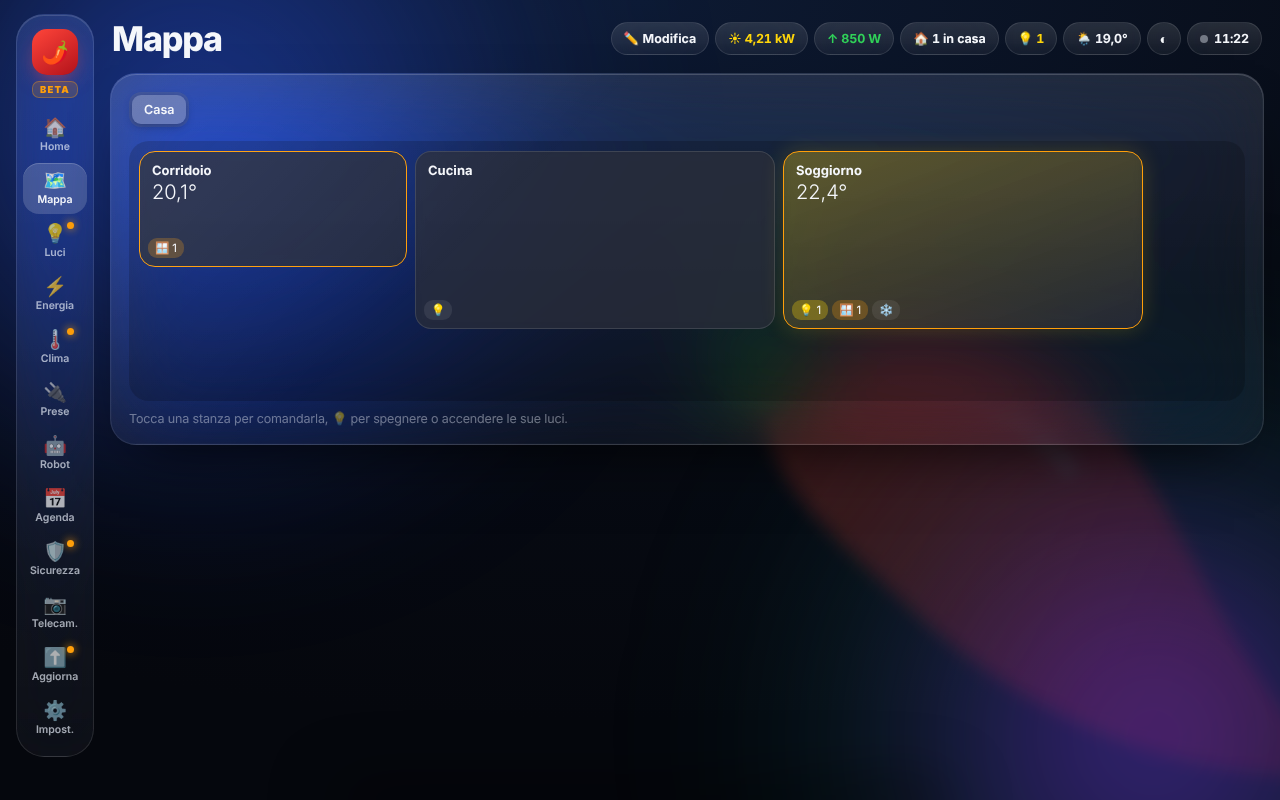
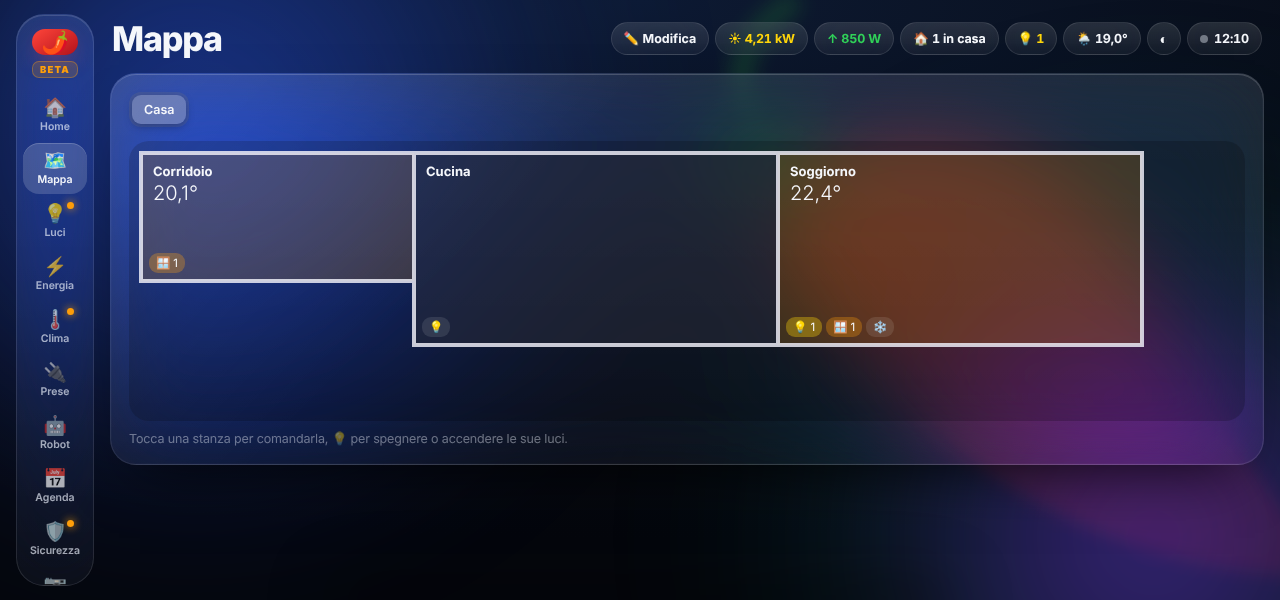
0.7.1-beta: energia oggi corretta, mappa con stanze a L e muri
Claude-Session: https://claude.ai/code/session_01EaUZ5Zvy2k59B92nQm4H5b

diff --git a/custom_components/nduja_dashboard/frontend/js/pages/mappa.js b/custom_components/nduja_dashboard/frontend/js/pages/mappa.js
@@ -23,10 +23,31 @@ function posizioni(f, stanze) {
     out[a] = { x, y, w, h }; x += w; hRiga = Math.max(hRiga, h);
   }
   /* le stanze salvate non devono finire sotto quelle automatiche: le automatiche partono sotto l'ultima salvata */
-  const salvate = stanze.filter(a => M[a]), fondo = Math.max(0, ...salvate.map(a => M[a].y + M[a].h));
+  const salvate = stanze.filter(a => M[a]), fondo = Math.max(0, ...salvate.flatMap(a => [M[a], ...(M[a].extra || [])].map(r => r.y + r.h)));
   if (salvate.length && salvate.length < stanze.length) stanze.filter(a => !M[a]).forEach(a => out[a] = { ...out[a], y: out[a].y + fondo });
   return out;
 }
+
+/** pezzi di una stanza: il rettangolo principale più quelli aggiunti (per le stanze a L, a T…) */
+const pezzi = p => [{ x: p.x, y: p.y, w: p.w, h: p.h }, ...(p.extra || [])];
+/** muri: il contorno dell'unione delle celle di ogni stanza (così una L ha un solo contorno) */
+function muri(pos, stanze) {
+  const seg = [];
+  for (const a of stanze) {
+    const C = new Set();
+    pezzi(pos[a]).forEach(r => { for (let x = r.x; x < r.x + r.w; x++) for (let y = r.y; y < r.y + r.h; y++) C.add(x + "," + y); });
+    for (const c of C) { const [x, y] = c.split(",").map(Number);
+      if (!C.has(x + "," + (y - 1))) seg.push(`M${x} ${y}H${x + 1}`);
+      if (!C.has(x + "," + (y + 1))) seg.push(`M${x} ${y + 1}H${x + 1}`);
+      if (!C.has((x - 1) + "," + y)) seg.push(`M${x} ${y}V${y + 1}`);
+      if (!C.has((x + 1) + "," + y)) seg.push(`M${x + 1} ${y}V${y + 1}`); }
+  }
+  return seg.join("");
+}
+const comandi = (a, i) => `<div class="mpe1">
+  <button data-act="mpMove" data-id="${a}" data-i="${i}" data-v="x,-1">←</button><button data-act="mpMove" data-id="${a}" data-i="${i}" data-v="y,-1">↑</button><button data-act="mpMove" data-id="${a}" data-i="${i}" data-v="y,1">↓</button><button data-act="mpMove" data-id="${a}" data-i="${i}" data-v="x,1">→</button>
+  <button data-act="mpMove" data-id="${a}" data-i="${i}" data-v="w,-1">⇠</button><button data-act="mpMove" data-id="${a}" data-i="${i}" data-v="w,1">⇢</button><button data-act="mpMove" data-id="${a}" data-i="${i}" data-v="h,-1">⇡</button><button data-act="mpMove" data-id="${a}" data-i="${i}" data-v="h,1">⇣</button>
+  ${i === 0 ? `<button class="wide" data-act="mpPiece" data-id="${a}">＋ ${t("pezzo (L)", "piece (L)")}</button>` : `<button class="wide bad" data-act="mpPieceDel" data-id="${a}" data-i="${i}">✕ ${t("pezzo", "piece")}</button>`}</div>`;
 
 function stanza(a, p) {
   const T = roomTemp(a), H = roomHum(a), L = lightsOn(a).length, nL = inArea(a, "light").length;
@@ -34,44 +55,53 @@ function stanza(a, p) {
   const mov = inArea(a, "binary_sensor", id => ["motion", "occupancy", "presence"].includes(deviceClass(id)) && isOn(id)).length;
   const C = inArea(a, "climate").find(id => ok(id) && S[id].state !== "off"), freddo = C && ["cool", "dry"].includes(S[C].state);
   const pericolo = inArea(a, "binary_sensor", id => ["smoke", "gas", "moisture", "carbon_monoxide"].includes(deviceClass(id)) && isOn(id)).length;
-  const ed = UI.edit ? `<div class="mpe1">
-      <button data-act="mpMove" data-id="${a}" data-v="x,-1">←</button><button data-act="mpMove" data-id="${a}" data-v="y,-1">↑</button><button data-act="mpMove" data-id="${a}" data-v="y,1">↓</button><button data-act="mpMove" data-id="${a}" data-v="x,1">→</button>
-      <button data-act="mpMove" data-id="${a}" data-v="w,-1">⇠</button><button data-act="mpMove" data-id="${a}" data-v="w,1">⇢</button><button data-act="mpMove" data-id="${a}" data-v="h,-1">⇡</button><button data-act="mpMove" data-id="${a}" data-v="h,1">⇣</button></div>` : "";
-  return `<div class="mpr1 ${L ? "lit" : ""} ${O ? "open" : ""} ${mov ? "mov" : ""} ${pericolo ? "dang" : ""}" style="grid-column:${p.x + 1} / span ${p.w};grid-row:${p.y + 1} / span ${p.h}">
-    <button class="mpb1" data-act="room" data-id="${a}"><b>${esc(AREAS[a].name)}</b>
+  const cls = `mpr1 ${L ? "lit" : ""} ${O ? "open" : ""} ${mov ? "mov" : ""} ${pericolo ? "dang" : ""}`;
+  return pezzi(p).map((r, i) => `<div class="${cls} ${i ? "pz" : ""}" style="grid-column:${r.x + 1} / span ${r.w};grid-row:${r.y + 1} / span ${r.h}">
+    ${i === 0 ? `<button class="mpb1" data-act="room" data-id="${a}"><b>${esc(AREAS[a].name)}</b>
       <span class="mpt1">${T != null ? fnum(T) + "°" : ""}${H != null ? `<small>${Math.round(H)}%</small>` : ""}</span></button>
-    <div class="mpi1">${nL ? `<button class="${L ? "on" : ""}" data-act="mpLights" data-id="${a}" title="${t("Luci", "Lights")}">💡${L ? " " + L : ""}</button>` : ""}${O ? `<i class="al">🪟 ${O}</i>` : ""}${C ? `<i>${freddo ? "❄" : "🔥"}</i>` : ""}${mov ? `<i>🏃</i>` : ""}${pericolo ? `<i class="al">🚨</i>` : ""}</div>${ed}</div>`;
+    <div class="mpi1">${nL ? `<button class="${L ? "on" : ""}" data-act="mpLights" data-id="${a}" title="${t("Luci", "Lights")}">💡${L ? " " + L : ""}</button>` : ""}${O ? `<i class="al">🪟 ${O}</i>` : ""}${C ? `<i>${freddo ? "❄" : "🔥"}</i>` : ""}${mov ? `<i>🏃</i>` : ""}${pericolo ? `<i class="al">🚨</i>` : ""}</div>`
+      : `<button class="mpb1" data-act="room" data-id="${a}" aria-label="${esc(AREAS[a].name)}"></button>`}
+    ${UI.edit ? comandi(a, i) : ""}</div>`).join("");
 }
 
 function pagina() {
   const P = piani();
   if (!P.length) return `<div class="g">${card("🗺 " + t("Mappa", "Map"), empty(t("Crea le aree in Home Assistant (Impostazioni → Aree) e assegna i dispositivi: la mappa si disegna da sola.", "Create areas in Home Assistant (Settings → Areas) and assign devices: the map draws itself.")))}</div>`;
   const cur = P.find(p => p.f === sGet("mapFloor")) || P[0], pos = posizioni(cur.f, cur.stanze);
-  const righe = Math.max(4, ...Object.values(pos).map(p => p.y + p.h)), img = LAYOUT.map?.[cur.f]?.img;
+  const righe = Math.max(4, ...Object.values(pos).flatMap(p => pezzi(p).map(r => r.y + r.h))), img = LAYOUT.map?.[cur.f]?.img;
   return `<div class="g"><section class="card mp1">
     <div class="ch"><div class="seg">${P.map(p => `<button class="${p.f === cur.f ? "act" : ""}" data-act="mpFloor" data-v="${p.f}">${esc(p.nome)}</button>`).join("")}</div>
       ${isAdmin() && UI.edit ? `<span class="row" style="gap:6px"><button class="btn sm" data-act="mpImg" data-v="${cur.f}">🖼 ${t("Piantina", "Floor plan")}</button><button class="btn sm" data-act="mpReset" data-v="${cur.f}">↺ ${t("Disposizione automatica", "Auto layout")}</button></span>` : ""}</div>
-    <div class="mpg1 ${UI.edit ? "edit" : ""}" style="grid-template-rows:repeat(${righe},minmax(54px,auto))${img ? `;background-image:url('${esc(img)}')` : ""}">${cur.stanze.map(a => stanza(a, pos[a])).join("")}</div>
-    ${UI.edit ? `<p class="small muted" style="margin-top:10px">${t("← ↑ ↓ → sposta la stanza, ⇠ ⇢ la allarga o la stringe, ⇡ ⇣ cambia l'altezza. «Piantina» mette sotto un'immagine (per esempio /local/piantina.png caricata nella cartella www).", "← ↑ ↓ → move the room, ⇠ ⇢ change its width, ⇡ ⇣ its height. «Floor plan» puts an image underneath (for example /local/plan.png uploaded to the www folder).")}</p>`
+    <div class="mpw1"><div class="mpg1 ${UI.edit ? "edit" : ""}" style="grid-template-rows:repeat(${righe},64px)${img ? `;background-image:url('${esc(img)}')` : ""}">${cur.stanze.map(a => stanza(a, pos[a])).join("")}</div>
+      <svg class="mpm1" viewBox="0 0 ${COL} ${righe}" preserveAspectRatio="none" aria-hidden="true"><path d="${muri(pos, cur.stanze)}"/></svg></div>
+    ${UI.edit ? `<p class="small muted" style="margin-top:10px">${t("← ↑ ↓ → sposta, ⇠ ⇢ larghezza, ⇡ ⇣ altezza. «＋ pezzo (L)» aggiunge un altro rettangolo alla stanza: mettilo accanto per fare una stanza a L, a T o di qualsiasi forma; i muri si uniscono da soli. «Piantina» mette sotto un'immagine (/local/piantina.png).", "← ↑ ↓ → move, ⇠ ⇢ width, ⇡ ⇣ height. «＋ piece (L)» adds another rectangle to the room: put it alongside to make an L, T or any shape; walls join automatically. «Floor plan» puts an image underneath (/local/plan.png).")}</p>`
       : `<p class="small muted" style="margin-top:10px">${t("Tocca una stanza per comandarla, 💡 per spegnere o accendere le sue luci.", "Tap a room to control it, 💡 to switch its lights.")}</p>`}
   </section></div>`;
 }
 
+/** copia modificabile delle posizioni del piano della stanza a */
+function modifica(a, fn) {
+  const f = AREAS[a].floor || "_", P = piani().find(p => p.f === f), pos = posizioni(f, P.stanze);
+  return cambia(l => {
+    l.map = { ...(l.map || {}) }; l.map[f] = { ...(l.map[f] || {}) };
+    l.map[f].rooms = JSON.parse(JSON.stringify({ ...pos, ...(l.map[f].rooms || {}) }));
+    fn(l.map[f].rooms[a]);
+  });
+}
 Object.assign(ACT, {
   mpFloor: el => { sSet("mapFloor", el.dataset.v); render(true); },
   mpLights: el => { const a = el.dataset.id, on = lightsOn(a), all = inArea(a, "light");
     svc("light", on.length ? "turn_off" : "turn_on", {}, { entity_id: on.length ? on : all }); },
   mpMove: el => {
-    const a = el.dataset.id, [k, d] = el.dataset.v.split(","), f = AREAS[a].floor || "_";
-    const P = piani().find(p => p.f === f), pos = posizioni(f, P.stanze);
-    cambia(l => {
-      l.map = { ...(l.map || {}) }; l.map[f] = { ...(l.map[f] || {}), rooms: { ...pos, ...(l.map[f]?.rooms || {}) } };
-      const r = { ...l.map[f].rooms[a] };
+    const a = el.dataset.id, i = +el.dataset.i || 0, [k, d] = el.dataset.v.split(",");
+    modifica(a, room => {
+      const r = i ? room.extra[i - 1] : room;
       r[k] = Math.max(k === "w" || k === "h" ? 1 : 0, r[k] + +d);
       if (r.x + r.w > COL) { if (k === "x") r.x = COL - r.w; else r.w = COL - r.x; }
-      l.map[f].rooms[a] = r;
     });
   },
+  mpPiece: el => modifica(el.dataset.id, r => { r.extra = [...(r.extra || []), { x: r.x, y: r.y + r.h, w: Math.max(1, Math.ceil(r.w / 2)), h: 1 }]; }),
+  mpPieceDel: el => { const i = +el.dataset.i; modifica(el.dataset.id, r => { r.extra = (r.extra || []).filter((_, j) => j !== i - 1); if (!r.extra.length) delete r.extra; }); },
   mpReset: el => { const f = el.dataset.v; cambia(l => { if (l.map?.[f]) { l.map = { ...l.map }; l.map[f] = { ...l.map[f] }; delete l.map[f].rooms; } }); },
   mpImg: el => { const f = el.dataset.v, cur = LAYOUT.map?.[f]?.img || "";
     openSheet(() => `<div class="sh-head"><div><h3>🖼 ${t("Piantina sotto la mappa", "Floor plan under the map")}</h3><div class="small muted">${t("Indirizzo di un'immagine: caricala in config/www e scrivi /local/nome.png. Lascia vuoto per toglierla.", "Image address: upload it to config/www and write /local/name.png. Leave empty to remove it.")}</div></div><button class="x" data-act="sheetClose">×</button></div>

diff --git a/custom_components/nduja_dashboard/frontend/css/nduja.css b/custom_components/nduja_dashboard/frontend/css/nduja.css
@@ -300,22 +300,27 @@ button.tr1{width:100%;text-align:left;padding:4px 6px;margin:0 -6px;border-radiu
 .kpd1 button{height:62px;border-radius:18px;background:rgba(255,255,255,.08);font-size:22px;font-weight:600;color:var(--tx)}
 .kpd1 button.ok{background:#0a84ff;color:#fff}
 .en2{padding:12px 0;border-bottom:1px solid rgba(255,255,255,.07)}.en2:last-child{border:0}.en2 .add1{margin-top:2px;min-height:0;padding:10px 14px;font-size:13px}
-/* ---------- 0.7: mappa ---------- */
+/* ---------- 0.7: mappa (stanze a pezzi, muri disegnati sopra) ---------- */
 .mp1 .ch{flex-wrap:wrap;gap:8px}
-.mpg1{display:grid;grid-template-columns:repeat(12,minmax(0,1fr));gap:8px;padding:10px;border-radius:20px;background:rgba(0,0,0,.18) center/contain no-repeat;min-height:240px}
-.mpg1.edit{background-color:rgba(255,159,10,.06);outline:1px dashed rgba(255,159,10,.35)}
-.mpr1{position:relative;display:flex;flex-direction:column;justify-content:space-between;border-radius:16px;background:rgba(40,44,58,.72);border:1.5px solid rgba(255,255,255,.12);backdrop-filter:blur(6px);overflow:hidden;min-height:54px;transition:background .3s,border-color .3s}
-.mpr1.lit{background:linear-gradient(160deg,rgba(255,214,10,.28),rgba(40,44,58,.75));border-color:rgba(255,214,10,.55);box-shadow:0 0 22px rgba(255,214,10,.18)}
-.mpr1.open{border-color:var(--orange)}
-.mpr1.mov::after{content:"";position:absolute;inset:0;border-radius:16px;box-shadow:inset 0 0 0 2px rgba(100,210,255,.7);animation:mp1p 1.6s ease-in-out infinite;pointer-events:none}
-.mpr1.dang{border-color:var(--red);background:rgba(255,69,58,.28)}
-@keyframes mp1p{50%{opacity:.25}}
+.mpw1{position:relative;border-radius:20px;background:rgba(0,0,0,.18);padding:12px;overflow:hidden}
+.mpg1{position:relative;display:grid;grid-template-columns:repeat(12,minmax(0,1fr));gap:0;background:center/100% 100% no-repeat}
+.mpg1.edit{outline:1px dashed rgba(255,159,10,.4);background-color:rgba(255,159,10,.04)}
+.mpm1{position:absolute;inset:12px;width:calc(100% - 24px);height:calc(100% - 24px);pointer-events:none;overflow:visible}
+.mpm1 path{fill:none;stroke:rgba(235,235,245,.85);stroke-width:4;stroke-linecap:square;vector-effect:non-scaling-stroke}
+.mpr1{position:relative;display:flex;flex-direction:column;justify-content:space-between;background:rgba(40,44,58,.55);min-height:0;transition:background .3s}
+.mpr1.lit{background:rgba(255,214,10,.22)}
+.mpr1.open{background:rgba(255,159,10,.18)}
+.mpr1.mov{animation:mp1p 1.6s ease-in-out infinite}
+.mpr1.dang{background:rgba(255,69,58,.35)}
+@keyframes mp1p{50%{background:rgba(100,210,255,.22)}}
 .mpb1{flex:1;display:flex;flex-direction:column;align-items:flex-start;gap:2px;padding:10px 12px 4px;text-align:left;color:var(--tx);min-width:0;width:100%}
+.mpr1.pz .mpb1{padding:0}
 .mpb1 b{font-size:13px;max-width:100%;overflow:hidden;text-overflow:ellipsis;white-space:nowrap}
 .mpt1{font-size:20px;font-weight:300}.mpt1 small{font-size:11px;color:var(--tx2);margin-left:6px}
 .mpi1{display:flex;gap:4px;flex-wrap:wrap;padding:0 8px 8px}
-.mpi1>*{font-style:normal;font-size:11.5px;padding:3px 7px;border-radius:9px;background:rgba(255,255,255,.08);color:var(--tx)}
-.mpi1 button.on{background:rgba(255,214,10,.3)}.mpi1 .al{background:rgba(255,159,10,.25)}
-.mpe1{position:absolute;inset:auto 4px 4px auto;display:grid;grid-template-columns:repeat(4,24px);gap:3px;background:rgba(0,0,0,.55);padding:4px;border-radius:10px}
-.mpe1 button{height:24px;border-radius:6px;background:rgba(255,255,255,.14);color:#fff;font-size:12px}
-@media (max-width:700px){.mpg1{grid-template-columns:repeat(12,minmax(0,1fr));gap:5px;padding:6px}.mpb1{padding:7px 8px 2px}.mpt1{font-size:16px}.mpb1 b{font-size:11.5px}}
+.mpi1>*{font-style:normal;font-size:11.5px;padding:3px 7px;border-radius:9px;background:rgba(255,255,255,.1);color:var(--tx)}
+.mpi1 button.on{background:rgba(255,214,10,.35)}.mpi1 .al{background:rgba(255,159,10,.3)}
+.mpe1{position:absolute;right:6px;bottom:6px;display:grid;grid-template-columns:repeat(4,22px);gap:2px;background:rgba(0,0,0,.6);padding:3px;border-radius:9px;z-index:2}
+.mpe1 button{height:20px;border-radius:5px;background:rgba(255,255,255,.15);color:#fff;font-size:11px}
+.mpe1 .wide{grid-column:1/-1;font-size:10.5px;font-weight:700}.mpe1 .bad{background:rgba(255,69,58,.5)}
+@media (max-width:700px){.mpw1{padding:6px}.mpm1{inset:6px;width:calc(100% - 12px);height:calc(100% - 12px)}.mpb1{padding:6px 6px 2px}.mpt1{font-size:15px}.mpb1 b{font-size:11px}.mpi1{padding:0 4px 4px}}

diff --git a/custom_components/nduja_dashboard/frontend/js/pages/energia.js b/custom_components/nduja_dashboard/frontend/js/pages/energia.js
@@ -81,7 +81,18 @@ function letture() {
 export const haEnergia = () => { const s = sensori(); return !!(s.pv || s.grid || s.battery || s.home); };
 
 /* ---------- totali di oggi dalle statistiche ---------- */
-const oggi = id => !id ? null : cached("estat:" + id, 5 * 60000, () => ws({ type: "recorder/statistic_during_period", statistic_id: id, fixed_period: { calendar: { period: "day" } }, types: ["change"] }).then(r => r?.change ?? null).catch(() => null));
+/** kWh di oggi di un contatore: se è già un contatore giornaliero (today/daily/oggi) uso il suo valore,
+    altrimenti quanto è cresciuto da mezzanotte nelle statistiche di Home Assistant */
+const GIORNO = /today|daily|oggi|giorn|_day\b|day_/i;
+const kwh = id => { const v = val(id); if (v == null) return null; const u = String(attr(id, "unit_of_measurement") || "").toLowerCase(); return u === "wh" ? v / 1000 : u === "mwh" ? v * 1000 : v; };
+const statOggi = id => cached("estat:" + id, 5 * 60000, () => ws({ type: "recorder/statistic_during_period", statistic_id: id, calendar: { period: "day" }, types: ["change"] })
+  .then(r => r?.change ?? null).catch(e => { console.warn("nduja energia", id, e); return null; }));
+const oggi = id => {
+  if (!id) return null;
+  if (S[id] && GIORNO.test(id + " " + nm(id)) && kwh(id) != null) return kwh(id);
+  const v = statOggi(id);
+  return v != null ? v : null;
+};
 function totali() {
   const P = prefs(), src = P.energy_sources || [], sum = ids => { const v = ids.map(oggi).filter(x => x != null); return v.length ? v.reduce((a, b) => a + b, 0) : null; };
   const grid = src.filter(s => s.type === "grid"), sol = src.filter(s => s.type === "solar"), bat = src.filter(s => s.type === "battery");
@@ -149,7 +160,7 @@ function cardOggi() {
   const k = v => v == null ? "—" : fnum(v, 2) + " kWh";
   const auto = T.pv ? Math.round(Math.max(0, T.pv - (T.exp || 0)) / T.pv * 100) : null, suff = T.casa ? Math.round(Math.max(0, T.casa - (T.imp || 0)) / T.casa * 100) : null;
   return card("📅 " + t("Oggi", "Today"), `<div class="og68">
-    ${T.pv != null ? `<div><small>${t("Prodotto", "Produced")}</small><b style="color:#ffd60a">${k(T.pv)}</b></div>` : ""}<div><small>${t("Consumato", "Consumed")}</small><b style="color:#64d2ff">${k(T.casa)}</b></div>
+    <div><small>${t("Prodotto", "Produced")}</small><b style="color:#ffd60a">${k(T.pv)}</b></div><div><small>${t("Consumato", "Consumed")}</small><b style="color:#64d2ff">${k(T.casa)}</b></div>
     <div><small>${t("Prelevato", "Imported")}</small><b style="color:#ff6961">${k(T.imp)}</b></div><div><small>${t("Immesso", "Exported")}</small><b style="color:#30d158">${k(T.exp)}</b></div>
     ${auto != null ? `<div><small>${t("Autoconsumo", "Self-consumption")}</small><b>${auto}%</b></div>` : ""}${suff != null ? `<div><small>${t("Autosufficienza", "Self-sufficiency")}</small><b>${suff}%</b></div>` : ""}
     ${T.bIn != null ? `<div><small>${t("Batteria caricata", "Battery charged")}</small><b>${k(T.bIn)}</b></div><div><small>${t("Batteria scaricata", "Battery discharged")}</small><b>${k(T.bOut)}</b></div>` : ""}

diff --git a/custom_components/nduja_dashboard/frontend/css/light.css b/custom_components/nduja_dashboard/frontend/css/light.css
@@ -106,9 +106,9 @@ body.light .kpv1{background:rgba(0,0,0,0.030)!important}
 body.light .kpd1 button{background:rgba(0,0,0,0.040)!important}
 body.light .kpd1 button.ok{color:#1c1c1e!important}
 body.light .en2{border-bottom:1px solid rgba(0,0,0,0.049)!important}
-body.light .mpr1{border:1.5px solid rgba(0,0,0,0.084)!important}
-body.light .mpi1>*{background:rgba(0,0,0,0.040)!important}
-body.light .mpe1 button{background:rgba(0,0,0,0.070)!important;color:#1c1c1e!important}
+body.light .mpm1 path{stroke:rgba(28,28,30,.85)!important}
+body.light .mpi1>*{background:rgba(0,0,0,0.050)!important}
+body.light .mpe1 button{background:rgba(0,0,0,0.075)!important;color:#1c1c1e!important}
 /* ---- tema chiaro: regole scritte a mano (vengono dopo quelle generate) ---- */
 body.light{--bg:#eef2f8;--tx:#1c1c1e;--tx2:rgba(28,28,30,.68);--tx3:rgba(28,28,30,.46);--line:rgba(0,0,0,.08);--line2:rgba(0,0,0,.16);--glass:rgba(255,255,255,.7);color-scheme:light}
 body.light .bg{background:radial-gradient(120% 90% at 50% 0%,#ffffff 0%,#eef2f8 55%,#e4e9f2 100%)}
@@ -140,5 +140,5 @@ body.light .av2 b{border-color:#fff}body.light .pb2{border-color:rgba(0,0,0,.35)
 body.light .x3{background:rgba(0,0,0,.06)}
 body.light .vb1,body.light .vr1 button,body.light .kpd1 button,body.light .kpv1{background:rgba(0,0,0,.05);border-color:rgba(0,0,0,.08)}
 body.light .kpd1 button.ok{background:#0a84ff;color:#fff}
-body.light .mpr1{background:rgba(255,255,255,.8);border-color:rgba(0,0,0,.1)}body.light .mpr1.lit{background:linear-gradient(160deg,rgba(255,214,10,.4),rgba(255,255,255,.85))}body.light .mpg1{background-color:rgba(0,0,0,.04)}body.light .mpi1>*{background:rgba(0,0,0,.06)}
+body.light .mpr1{background:rgba(255,255,255,.75)}body.light .mpr1.lit{background:rgba(255,214,10,.35)}body.light .mpw1{background:rgba(0,0,0,.05)}body.light .mpm1 path{stroke:rgba(28,28,30,.8)}body.light .mpi1>*{background:rgba(0,0,0,.06)}
 

diff --git a/tools/light_extra.css b/tools/light_extra.css
@@ -29,4 +29,4 @@ body.light .av2 b{border-color:#fff}body.light .pb2{border-color:rgba(0,0,0,.35)
 body.light .x3{background:rgba(0,0,0,.06)}
 body.light .vb1,body.light .vr1 button,body.light .kpd1 button,body.light .kpv1{background:rgba(0,0,0,.05);border-color:rgba(0,0,0,.08)}
 body.light .kpd1 button.ok{background:#0a84ff;color:#fff}
-body.light .mpr1{background:rgba(255,255,255,.8);border-color:rgba(0,0,0,.1)}body.light .mpr1.lit{background:linear-gradient(160deg,rgba(255,214,10,.4),rgba(255,255,255,.85))}body.light .mpg1{background-color:rgba(0,0,0,.04)}body.light .mpi1>*{background:rgba(0,0,0,.06)}
+body.light .mpr1{background:rgba(255,255,255,.75)}body.light .mpr1.lit{background:rgba(255,214,10,.35)}body.light .mpw1{background:rgba(0,0,0,.05)}body.light .mpm1 path{stroke:rgba(28,28,30,.8)}body.light .mpi1>*{background:rgba(0,0,0,.06)}

diff --git a/custom_components/nduja_dashboard/const.py b/custom_components/nduja_dashboard/const.py
@@ -1,6 +1,6 @@
 """Costanti di 'Nduja Dashboard."""
 DOMAIN = "nduja_dashboard"
-VERSION = "0.7.0-beta"
+VERSION = "0.7.1-beta"
 PANEL_URL = "nduja"
 STATIC_URL = f"/{DOMAIN}_static"
 

diff --git a/CHANGELOG.md b/CHANGELOG.md
@@ -3,6 +3,12 @@
 > 🇮🇹 'Nduja Dashboard è in **beta**: funziona, ma può cambiare e avere difetti. Segnalali nelle Issues.
 > 🇬🇧 'Nduja Dashboard is in **beta**: it works, but it may change and have bugs. Please report them in Issues.
 
+## 0.7.1-beta
+- 🇮🇹 **Energia → Oggi**: ora mostra davvero prodotto, consumato, prelevato e immesso (la richiesta delle statistiche era sbagliata); i contatori giornalieri (today/daily) si leggono direttamente.
+- 🇮🇹 **Mappa: stanze a L** (e di qualsiasi forma): «＋ pezzo (L)» aggiunge un rettangolo alla stanza, ognuno si sposta e si ridimensiona da solo; i **muri** vengono disegnati sul contorno e si uniscono da soli.
+- 🇬🇧 **Energy → Today**: now really shows produced, consumed, imported and exported (the statistics request was wrong); daily meters (today/daily) are read directly.
+- 🇬🇧 **Map: L-shaped rooms** (and any shape): «＋ piece (L)» adds a rectangle to the room, each one moves and resizes on its own; **walls** are drawn on the outline and join automatically.
+
 ## 0.7.0-beta
 - 🇮🇹 **Mappa della casa**: le stanze di ogni piano disegnate da sole dalle aree, con luci accese (si illuminano), finestre aperte, clima, movimento, allarmi fumo/gas/acqua e temperatura. Tocca una stanza per comandarla, 💡 per accendere o spegnere le sue luci.
 - 🇮🇹 In ✏ Modifica: sposta ← ↑ ↓ →, allarga ⇠ ⇢, cambia altezza ⇡ ⇣, «Disposizione automatica» per ricominciare, «Piantina» per mettere sotto un'immagine della tua casa (/local/…).
